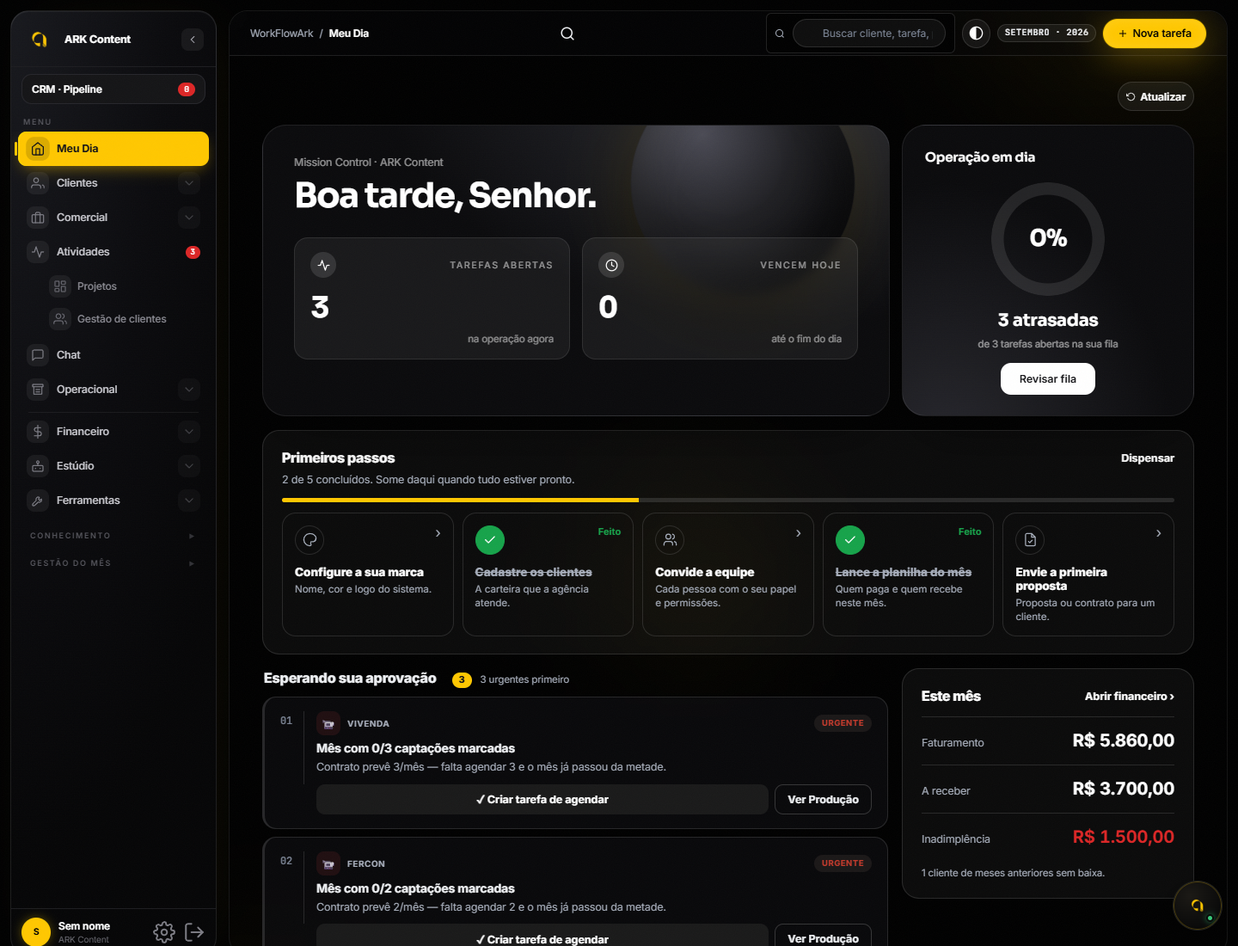
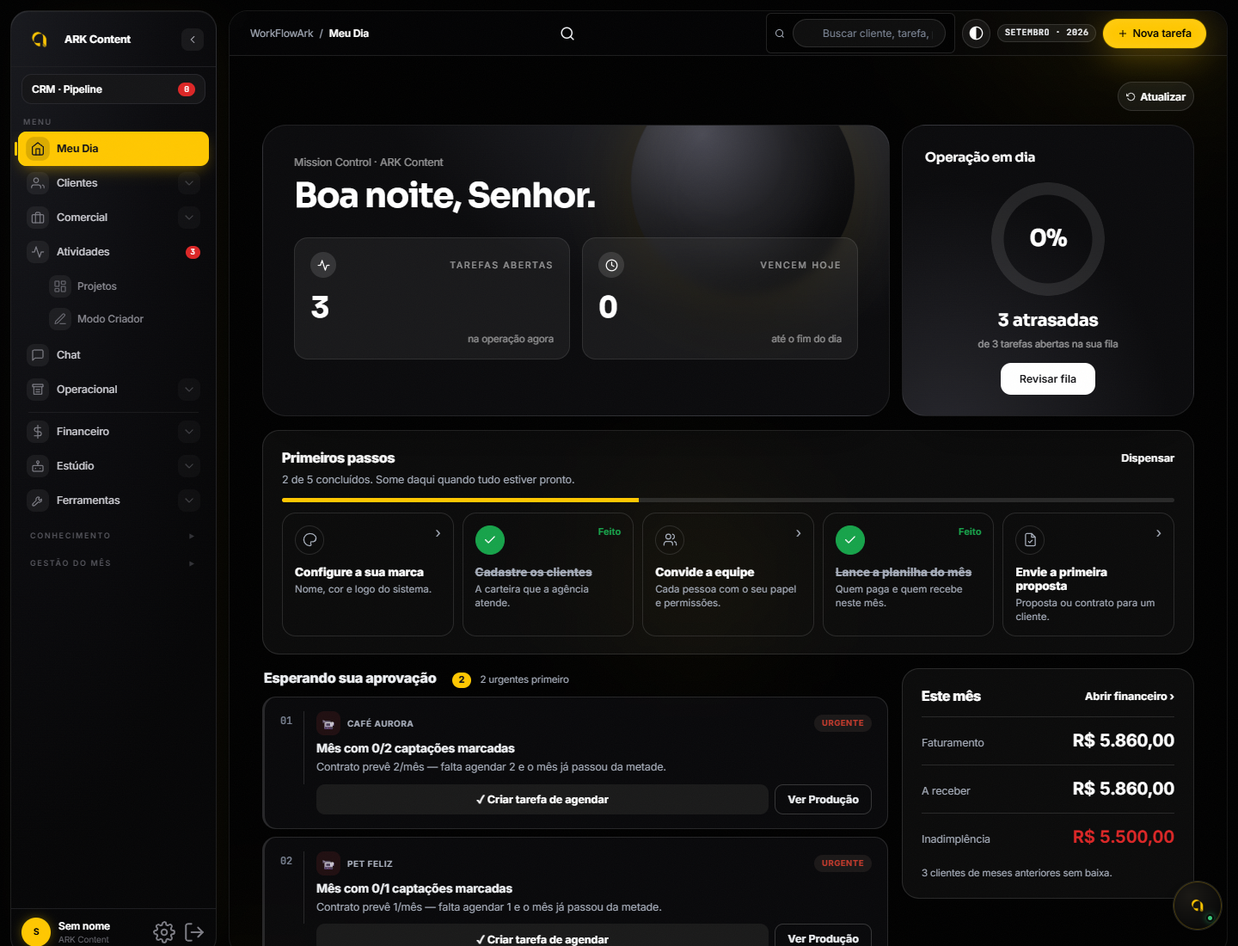
feat(clientes): Lista de Clientes no molde da V3 com a jornada nos cartões
- Busca por nome ou plano e alternância Cartões | Lista (a escolha fica salva)
- Abas por objetivo: Todos, Onboarding, Em jornada, Precisa de atenção e Churn
- Cartão junta plano, valor, captações, etapa da jornada (Sprint N de 20 com barra),
  cobrança do mês e os atalhos de antes (ficha, Modo Criador, relatório, criativos,
  onboarding, editar); a lista mostra as mesmas colunas da V3
- Saúde dos clientes sai da lista (continua na aba Saúde de cada cliente); mapa no
  botão do topo
- Provas do Início refeitas com carteira fictícia (as anteriores mostravam nomes
  reais de clientes num repositório público)
- Lógica em src/lib/clientes-lista.js com cópia no navegador e teste

diff --git a/public/workflowark.html b/public/workflowark.html
@@ -1,4 +1,4 @@
-<!-- build 20260926d-modo-criador -->
+<!-- build 20260926e-lista-clientes -->
 <html lang="pt-BR">
 <head>
 <meta charset="utf-8">
@@ -1234,16 +1234,15 @@ function wfaSetTheme(t){
       <!-- =================== LISTA DE CLIENTES =================== -->
       <div class="page" id="page-lista-clientes">
         <div class="page-head">
-          <div class="page-title"><h1>Lista de Clientes</h1><p>Carteira consolidada · ARK direta + Squad Alpha</p></div>
-          <div style="display:flex;gap:6px"><button class="tb-btn dk" onclick="cliNovoOpen()">+ Novo cliente</button></div>
+          <div class="page-title"><h1>Clientes</h1><p id="cl-sub">Carteira da ARK</p></div>
+          <div style="display:flex;gap:6px;flex-wrap:wrap"><button type="button" class="tb-btn" id="climap-abrir" onclick="cliMapAbrir()">Ver mapa dos clientes</button><button class="tb-btn dk" onclick="cliNovoOpen()">+ Novo cliente</button></div>
         </div>
 
         <div class="cli-kpis" id="cli-kpis"></div>
 
-        <div id="cli-health"></div>
+        <div id="cli-health" style="display:none"></div>
 
         <!-- Mapa dos clientes (MapLibre GL, o motor do mapcn, carregado sob demanda) -->
-        <div style="display:flex;justify-content:flex-end;margin:-4px 0 12px"><button type="button" class="tb-btn" id="climap-abrir" onclick="cliMapAbrir()">Ver mapa dos clientes</button></div>
         <div class="card" id="climap-card" style="padding:0;overflow:hidden;margin-bottom:16px;display:none">
           <div style="display:flex;align-items:center;justify-content:space-between;gap:10px;padding:14px 16px;border-bottom:1px solid var(--line);flex-wrap:wrap">
             <h3 style="font-size:14px;font-weight:700;display:flex;align-items:center;gap:8px;margin:0">
@@ -1258,6 +1257,66 @@ function wfaSetTheme(t){
           <div id="climap" style="height:400px;background:#0a0a0c"></div>
         </div>
 
+        <style>
+          #page-lista-clientes .cl-barra{display:flex;gap:10px;align-items:center;flex-wrap:wrap;margin:4px 0 14px}
+          #page-lista-clientes .cl-busca{flex:1 1 260px;position:relative}
+          #page-lista-clientes .cl-busca input{width:100%;padding:10px 12px 10px 36px;border:1px solid var(--line);border-radius:12px;background:var(--surface);color:var(--ink);font-size:13px;font-family:inherit;outline:none}
+          #page-lista-clientes .cl-busca input:focus{border-color:var(--yel)}
+          #page-lista-clientes .cl-busca svg{position:absolute;left:12px;top:50%;transform:translateY(-50%);color:var(--mute)}
+          #page-lista-clientes .cl-seg{display:flex;gap:2px;border:1px solid var(--line);border-radius:12px;padding:4px;background:var(--surface);overflow-x:auto;max-width:100%;scrollbar-width:none}
+          #page-lista-clientes .cl-seg::-webkit-scrollbar{display:none}
+          #page-lista-clientes .cl-seg button{background:none;border:none;padding:7px 12px;border-radius:9px;font-size:12.5px;font-weight:600;color:var(--mute);cursor:pointer;white-space:nowrap;font-family:inherit;display:inline-flex;gap:6px;align-items:center}
+          #page-lista-clientes .cl-seg button em{font-style:normal;font-size:10.5px;opacity:.75}
+          #page-lista-clientes .cl-seg button.ativo{background:var(--ink);color:var(--bg)}
+          #page-lista-clientes .cl-seg button:focus-visible,#page-lista-clientes .cl-btn:focus-visible,#page-lista-clientes .cl-card:focus-visible{outline:2px solid var(--yel);outline-offset:2px}
+          #page-lista-clientes .cl-grade{display:grid;grid-template-columns:repeat(auto-fill,minmax(290px,1fr));gap:12px}
+          #page-lista-clientes .cl-card{background:var(--surface);border:1px solid var(--line);border-radius:18px;padding:16px;display:flex;flex-direction:column;gap:12px;cursor:pointer;transition:border-color .15s,transform .15s;min-width:0;border-top:3px solid var(--line)}
+          #page-lista-clientes .cl-card:hover{border-color:var(--ink);transform:translateY(-1px)}
+          #page-lista-clientes .cl-card.st-r{border-top-color:var(--red)}#page-lista-clientes .cl-card.st-y{border-top-color:#f59e0b}#page-lista-clientes .cl-card.st-gr{border-top-color:var(--green)}
+          #page-lista-clientes .cl-card-cab{display:flex;align-items:center;gap:10px;min-width:0}
+          #page-lista-clientes .cl-av{width:38px;height:38px;border-radius:11px;display:grid;place-items:center;font-weight:800;font-size:13px;flex:none;background:color-mix(in srgb,var(--yel) 22%,transparent);color:var(--ink)}
+          #page-lista-clientes .cl-nm{min-width:0;flex:1;display:flex;flex-direction:column}
+          #page-lista-clientes .cl-nm b{font-size:14.5px;color:var(--ink);white-space:nowrap;overflow:hidden;text-overflow:ellipsis}
+          #page-lista-clientes .cl-nm span{font-size:11.5px;color:var(--mute);white-space:nowrap;overflow:hidden;text-overflow:ellipsis}
+          #page-lista-clientes .cl-valor{display:flex;align-items:baseline;gap:6px;flex-wrap:wrap}
+          #page-lista-clientes .cl-valor b{font-size:21px;font-weight:800;color:var(--ink);font-variant-numeric:tabular-nums}
+          #page-lista-clientes .cl-valor span{font-size:12px;color:var(--mute)}
+          #page-lista-clientes .cl-valor em{font-style:normal;font-size:11px;font-weight:700;color:var(--yel-d);margin-left:auto}
+          #page-lista-clientes .cl-jor-t{display:flex;justify-content:space-between;font-size:11.5px;color:var(--mute);margin-bottom:6px}
+          #page-lista-clientes .cl-jor-t b{color:var(--ink);font-weight:700}
+          #page-lista-clientes .cl-jor-barra{height:6px;border-radius:999px;background:var(--line);overflow:hidden}
+          #page-lista-clientes .cl-jor-barra i{display:block;height:100%;background:var(--yel);border-radius:999px}
+          #page-lista-clientes .cl-jor.sem .cl-jor-t b{color:var(--mute);font-weight:600}
+          #page-lista-clientes .cl-meta{font-size:12px;color:var(--mute);margin:0;line-height:1.45;display:-webkit-box;-webkit-line-clamp:2;-webkit-box-orient:vertical;overflow:hidden}
+          #page-lista-clientes .cl-chip{display:inline-flex;align-items:center;gap:6px;font-size:11px;font-weight:700;border-radius:999px;padding:3px 9px;color:var(--mute);border:1px solid var(--line);white-space:nowrap}
+          #page-lista-clientes .cl-chip i{width:6px;height:6px;border-radius:50%;background:currentColor}
+          #page-lista-clientes .cl-chip.ok,#page-lista-clientes .cl-chip.st-gr{color:var(--green);border-color:transparent;background:color-mix(in srgb,var(--green) 13%,transparent)}
+          #page-lista-clientes .cl-chip.ab,#page-lista-clientes .cl-chip.st-y{color:#b36200;border-color:transparent;background:color-mix(in srgb,#f59e0b 18%,transparent)}
+          #page-lista-clientes .cl-chip.st-r{color:var(--red);border-color:transparent;background:color-mix(in srgb,var(--red) 13%,transparent)}
+          body.aura-dark #page-lista-clientes .cl-chip.ab,body.aura-dark #page-lista-clientes .cl-chip.st-y{color:#fbbf24}
+          #page-lista-clientes .cl-card-pe{display:flex;gap:6px;flex-wrap:wrap}
+          #page-lista-clientes .cl-acoes{display:flex;gap:6px;flex-wrap:wrap;border-top:1px solid var(--line);padding-top:12px}
+          #page-lista-clientes .cl-btn{font-family:inherit;font-size:11.5px;font-weight:700;border-radius:9px;padding:6px 10px;cursor:pointer;border:1px solid var(--line);background:none;color:var(--ink)}
+          #page-lista-clientes .cl-btn.pri{background:var(--yel);border-color:var(--yel);color:#141414}
+          #page-lista-clientes .cl-btn:hover{border-color:var(--ink)}
+          #page-lista-clientes .cl-tab-caixa{overflow-x:auto;border:1px solid var(--line);border-radius:16px;background:var(--surface)}
+          #page-lista-clientes .cl-tab{width:100%;border-collapse:collapse;font-size:13px;min-width:760px}
+          #page-lista-clientes .cl-tab th{font-size:11.5px;font-weight:600;color:var(--mute);text-align:left;padding:11px 14px;border-bottom:1px solid var(--line);white-space:nowrap}
+          #page-lista-clientes .cl-tab td{padding:11px 14px;border-top:1px solid var(--line);color:var(--ink);vertical-align:middle}
+          #page-lista-clientes .cl-tab tr:first-child td{border-top:none}
+          #page-lista-clientes .cl-tab tbody tr{cursor:pointer}#page-lista-clientes .cl-tab tbody tr:hover td{background:color-mix(in srgb,var(--ink) 4%,transparent)}
+          #page-lista-clientes .cl-tab .n{text-align:right;white-space:nowrap;font-variant-numeric:tabular-nums}
+          #page-lista-clientes .cl-cel-nm{display:flex;align-items:center;gap:10px}#page-lista-clientes .cl-cel-nm b{display:block}#page-lista-clientes .cl-cel-nm span{font-size:11.5px;color:var(--mute)}
+          #page-lista-clientes .cl-mute{color:var(--mute)}#page-lista-clientes .cl-vazio{font-size:13px;color:var(--mute);padding:24px 0;text-align:center}
+          @media(max-width:560px){#page-lista-clientes .cl-grade{grid-template-columns:minmax(0,1fr)}#page-lista-clientes .cl-barra{gap:8px}}
+        </style>
+        <div class="cl-barra">
+          <label class="cl-busca"><svg viewBox="0 0 24 24" width="15" height="15" fill="none" stroke="currentColor" stroke-width="2" stroke-linecap="round"><circle cx="11" cy="11" r="7"/><path d="M21 21l-4.3-4.3"/></svg><input id="cl-busca" type="search" placeholder="Buscar por nome ou plano" aria-label="Buscar cliente"></label>
+          <div class="cl-seg" role="group" aria-label="Visualização"><button type="button" data-cl-vista="cartoes">Cartões</button><button type="button" data-cl-vista="lista">Lista</button></div>
+        </div>
+        <div class="cl-seg" id="cl-abas" role="tablist" aria-label="Objetivos" style="margin-bottom:14px;width:max-content"></div>
+        <div id="cl-corpo"></div>
+        <div hidden aria-hidden="true">
         <div class="tabs" data-tabs>
           <div class="tab active" data-sub="todos">Todos <span class="ct">14</span></div>
           <div class="tab" data-sub="ark">ARK Direto <span class="ct">8</span></div>
@@ -1273,6 +1332,7 @@ function wfaSetTheme(t){
         </div>
         <div class="subpage" data-subpage="ark"><div class="g3" id="ark-clientes-2"></div></div>
         <div class="subpage" data-subpage="alpha"><div class="g3" id="alpha-clientes-2"></div></div>
+        </div>
       </div>
 
       <!-- =================== JORNADA / SPRINTS =================== -->
@@ -4678,11 +4738,13 @@ function wfaSetTheme(t){
 
 <div class="toast" id="toast"><svg viewBox="0 0 24 24" fill="none" stroke="currentColor" stroke-width="2.5" stroke-linecap="round" stroke-linejoin="round"><polyline points="20 6 9 17 4 12"/></svg><span id="toast-msg">Pronto</span></div>
 
-<script src="workflowark-app-20260926b.js"></script>
+<script src="workflowark-app-20260926c.js"></script>
 <script type="module">import * as P from "./workflowark-permissoes-20260926a.js";window.WFA_PERM=P;try{applyAccess();}catch(e){}</script>
 <script src="workflowark-finpainel-20260926a.js"></script>
 <script src="workflowark-inicio-20260926a.js"></script>
 <script src="workflowark-criadorpainel-20260926a.js"></script>
+<script src="workflowark-clientes-20260926a.js"></script>
+<script type="module">import * as L from "./workflowark-clientes-lista-20260926a.js";window.WFA_CLI=L;try{cliListaRender();}catch(e){}</script>
 <script type="module">import * as C from "./workflowark-criador-20260926a.js";window.WFA_CRIADOR=C;try{if(document.querySelector("#page-criador.active"))criadorRender();}catch(e){}</script>
 <script type="module">import * as F from "./workflowark-financeiro-20260926a.js";window.WFA_FIN=F;try{fxRender();}catch(e){}try{iniRender();}catch(e){}</script>
 <script src="workflowark-cliente-20260922d.js" defer></script>

diff --git a/public/workflowark-clientes-20260926a.js b/public/workflowark-clientes-20260926a.js
@@ -1,0 +1,72 @@
+/* ============ LISTA DE CLIENTES NO MOLDE DA V3 (26/09/2026) ============
+   Busca, abas por objetivo (Todos, Onboarding, Em jornada, Precisa de atenção, Churn) e
+   alternância Cartões | Lista. O cartão junta a jornada (sprint) com plano, valor e a
+   cobrança do mês. Cálculo em window.WFA_CLI (workflowark-clientes-lista-<data>.js). */
+let CL_ABA='todos',CL_BUSCA='',CL_VISTA=(function(){try{return localStorage.getItem('wfa-cli-vista')||'cartoes';}catch(e){return 'cartoes';}})(),CL_LIGADO=false;
+const CL_ABAS=[['todos','Todos'],['onboarding','Onboarding'],['jornada','Em jornada'],['atencao','Precisa de atenção'],['churn','Churn']];
+const CL_ST={r:'Urgente',y:'Em ajuste',gr:'Saudável',churn:'Churn'};
+function clEsc(s){return (typeof mdEsc==='function')?mdEsc(s):String(s==null?'':s).replace(/[&<>"']/g,c=>({'&':'&amp;','<':'&lt;','>':'&gt;','"':'&quot;',"'":'&#39;'}[c]));}
+function clIni(nm){return (typeof cliInitials==='function')?cliInitials(String(nm||'?')).toUpperCase():String(nm||'?').slice(0,2).toUpperCase();}
+function clR(v){return v?'R$ '+Number(v).toLocaleString('pt-BR'):'';}
+function clJornada(x){
+  if(x.etapa==='onboarding')return `<div class="cl-jor"><div class="cl-jor-t"><span>Jornada</span><b>Onboarding</b></div><div class="cl-jor-barra"><i style="width:3%"></i></div></div>`;
+  if(x.etapa==='jornada')return `<div class="cl-jor"><div class="cl-jor-t"><span>Jornada</span><b>Sprint ${x.sprint} de 20</b></div><div class="cl-jor-barra"><i style="width:${x.progresso}%"></i></div></div>`;
+  return `<div class="cl-jor sem"><div class="cl-jor-t"><span>Jornada</span><b>Fora da jornada</b></div><div class="cl-jor-barra"></div></div>`;
+}
+function clCob(x){
+  if(!x.cobravel)return `<span class="cl-chip">${x.tipo==='Alpha'?'Squad Alpha':'Sem valor'}</span>`;
+  return x.cobrado?'<span class="cl-chip ok"><i></i>Cobrado no mês</span>':'<span class="cl-chip ab"><i></i>A cobrar</span>';
+}
+function clStatus(x){return `<span class="cl-chip st-${clEsc(x.status)}"><i></i>${CL_ST[x.status]||'Ativo'}</span>`;}
+function clCartao(x){
+  return `<div class="cl-card st-${clEsc(x.status)}" data-cl-ficha="${clEsc(x.id)}" tabindex="0" role="button" aria-label="Abrir ficha de ${clEsc(x.nm)}">
+    <div class="cl-card-cab"><span class="cl-av">${clEsc(clIni(x.nm))}</span><div class="cl-nm"><b>${clEsc(x.nm)}</b><span>${clEsc(x.plano||'Sem plano')}${x.tipo==='Alpha'?' · Squad Alpha':''}</span></div>${clStatus(x)}</div>
+    <div class="cl-valor">${x.valor?`<b>${clR(x.valor)}</b><span>/mês</span>`:'<span class="cl-mute">Sem valor mensal</span>'}${x.cap?`<em>${x.cap} ${x.cap===1?'captação':'captações'}/mês</em>`:''}</div>
+    ${clJornada(x)}
+    ${x.meta?`<p class="cl-meta">${clEsc(x.meta)}</p>`:''}
+    <div class="cl-card-pe">${clCob(x)}</div>
+    <div class="cl-acoes">
+      <button type="button" class="cl-btn pri" data-cl-ficha="${clEsc(x.id)}">Abrir ficha</button>
+      <button type="button" class="cl-btn" data-cl-criador="${clEsc(x.id)}">Modo Criador</button>
+      <button type="button" class="cl-btn" data-cl-acao="relatorioCliente" data-id="${clEsc(x.id)}">Relatório</button>
+      <button type="button" class="cl-btn" data-cl-acao="abrirCriativos" data-id="${clEsc(x.id)}">Criativos</button>
+      <button type="button" class="cl-btn" data-cl-acao="abrirOnboarding" data-id="${clEsc(x.id)}">Onboarding</button>
+      <button type="button" class="cl-btn" data-cl-acao="cliEditOpen" data-id="${clEsc(x.id)}">Editar</button>
+    </div>
+  </div>`;
+}
+function clTabela(ls){
+  return `<div class="cl-tab-caixa"><table class="cl-tab"><thead><tr><th>Cliente</th><th>Plano</th><th class="n">Valor mensal</th><th>Jornada</th><th>Cobrança do mês</th><th>Status</th></tr></thead><tbody>${ls.map(x=>`<tr data-cl-ficha="${clEsc(x.id)}" tabindex="0">
+    <td><div class="cl-cel-nm"><span class="cl-av">${clEsc(clIni(x.nm))}</span><div><b>${clEsc(x.nm)}</b><span>${x.tipo==='Alpha'?'Squad Alpha':'ARK Direto'}</span></div></div></td>
+    <td>${clEsc(x.plano||'Sem plano')}</td><td class="n">${x.valor?clR(x.valor):'<span class="cl-mute">sem valor</span>'}</td>
+    <td>${x.etapa==='sem'?'<span class="cl-mute">Fora da jornada</span>':x.etapa==='onboarding'?'Onboarding':'Sprint '+x.sprint+' de 20'}</td>
+    <td>${clCob(x)}</td><td>${clStatus(x)}</td></tr>`).join('')}</tbody></table></div>`;
+}
+function cliListaRender(){
+  const el=document.getElementById('cl-corpo');if(!el)return;
+  clLigar();
+  if(!window.WFA_CLI){el.innerHTML='<p class="cl-mute">Carregando a carteira…</p>';return;}
+  const mk=(typeof cobMesKey==='function')?cobMesKey():new Date().toISOString().slice(0,7);
+  const linhas=WFA_CLI.montarLinhas((typeof CLIENTES!=='undefined'?CLIENTES:[]),(typeof SPRINTS!=='undefined'?SPRINTS:[]),state.cobranca||{},mk);
+  const n=WFA_CLI.contarAbas(linhas);
+  const sub=document.getElementById('cl-sub');if(sub)sub.textContent=`${n.todos} ${n.todos===1?'cliente ativo':'clientes ativos'}${n.churn?`, ${n.churn} em churn`:''}`;
+  const abas=document.getElementById('cl-abas');
+  if(abas)abas.innerHTML=CL_ABAS.map(([k,t])=>`<button type="button" role="tab" data-cl-aba="${k}" class="${k===CL_ABA?'ativo':''}" aria-selected="${k===CL_ABA}">${t}<em>${n[k]}</em></button>`).join('');
+  document.querySelectorAll('[data-cl-vista]').forEach(b=>b.classList.toggle('ativo',b.dataset.clVista===CL_VISTA));
+  const ls=WFA_CLI.filtrar(linhas,CL_ABA,CL_BUSCA);
+  if(!ls.length){el.innerHTML=`<p class="cl-vazio">${CL_BUSCA?'Nenhum cliente com esse nome ou plano.':'Nenhum cliente nesta aba.'}</p>`;return;}
+  el.innerHTML=CL_VISTA==='lista'?clTabela(ls):`<div class="cl-grade">${ls.map(clCartao).join('')}</div>`;
+}
+function clLigar(){
+  if(CL_LIGADO)return;const pg=document.getElementById('page-lista-clientes');if(!pg)return;CL_LIGADO=true;
+  pg.addEventListener('click',e=>{
+    const t=e.target;
+    const aba=t.closest('[data-cl-aba]');if(aba){CL_ABA=aba.dataset.clAba;cliListaRender();return;}
+    const v=t.closest('[data-cl-vista]');if(v){CL_VISTA=v.dataset.clVista;try{localStorage.setItem('wfa-cli-vista',CL_VISTA);}catch(_){}cliListaRender();return;}
+    const cr=t.closest('[data-cl-criador]');if(cr){e.stopPropagation();if(typeof criadorAbrir==='function')criadorAbrir(cr.dataset.clCriador);return;}
+    const ac=t.closest('[data-cl-acao]');if(ac){e.stopPropagation();const fn=window[ac.dataset.clAcao];if(typeof fn==='function')fn(ac.dataset.id);return;}
+    const f=t.closest('[data-cl-ficha]');if(f&&typeof cliDetalhe==='function'){cliDetalhe(f.dataset.clFicha);}
+  });
+  pg.addEventListener('keydown',e=>{if(e.key!=='Enter')return;const f=e.target.closest&&e.target.closest('[data-cl-ficha]');if(f&&typeof cliDetalhe==='function')cliDetalhe(f.dataset.clFicha);});
+  const b=document.getElementById('cl-busca');if(b)b.addEventListener('input',()=>{CL_BUSCA=b.value;cliListaRender();});
+}

diff --git a/public/workflowark-clientes-lista-20260926a.js b/public/workflowark-clientes-lista-20260926a.js
@@ -1,0 +1,53 @@
+// Lista de Clientes no molde da V3 (26/09/2026). Módulo puro, testado em
+// deploy/teste-clientes-lista.mjs; o navegador carrega uma cópia IDÊNTICA em
+// public/workflowark-clientes-lista-<data>.js. Junta o cliente, a etapa da jornada
+// (sprint 0 é onboarding, 1 a 20 é a jornada) e a cobrança do mês.
+
+const ULTIMO_SPRINT = 20;
+const semAcento = (s) => String(s || "").normalize("NFD").replace(/[̀-ͯ]/g, "").toLowerCase();
+const ORDEM_STATUS = { r: 0, y: 1, gr: 2, churn: 3 };
+
+export function montarLinhas(clientes, sprints, cobranca, mk) {
+  const sprintDe = {};
+  for (const sp of sprints || []) for (const id of sp.clis || []) if (!(id in sprintDe)) sprintDe[id] = sp.n;
+  return (clientes || []).map((c) => {
+    const sprint = c.id in sprintDe ? sprintDe[c.id] : null;
+    const cob = (cobranca || {})[c.id] || {};
+    const cobravel = c.tipo !== "Alpha" && Number(c.valor) > 0;
+    return {
+      id: c.id, nm: c.nm, tipo: c.tipo || "", plano: c.plano || "", valor: Number(c.valor) || 0, cap: Number(c.cap) || 0,
+      status: c.status || "gr", meta: c.meta || "",
+      sprint,
+      etapa: sprint === null ? "sem" : sprint === 0 ? "onboarding" : "jornada",
+      progresso: sprint ? Math.round((sprint / ULTIMO_SPRINT) * 100) : 0,
+      cobravel,
+      cobrado: cobravel && (cob.cobradoMes === mk || !!(cob.cobradoMeses && cob.cobradoMeses[mk])),
+      atencao: c.status === "r" || c.status === "y",
+    };
+  });
+}
+
+export function filtrar(linhas, aba, busca) {
+  const q = semAcento(busca).trim();
+  let out = (linhas || []).filter((x) => {
+    if (aba === "churn") return x.status === "churn";
+    if (x.status === "churn") return false;
+    if (aba === "onboarding") return x.etapa === "onboarding";
+    if (aba === "jornada") return x.etapa === "jornada";
+    if (aba === "atencao") return x.atencao;
+    return true;
+  });
+  if (q) out = out.filter((x) => semAcento(x.nm + " " + x.plano + " " + x.tipo).includes(q));
+  return out.sort((a, b) => (ORDEM_STATUS[a.status] ?? 2) - (ORDEM_STATUS[b.status] ?? 2) || String(a.nm).localeCompare(String(b.nm), "pt-BR"));
+}
+
+export function contarAbas(linhas) {
+  const ativos = (linhas || []).filter((x) => x.status !== "churn");
+  return {
+    todos: ativos.length,
+    onboarding: ativos.filter((x) => x.etapa === "onboarding").length,
+    jornada: ativos.filter((x) => x.etapa === "jornada").length,
+    atencao: ativos.filter((x) => x.atencao).length,
+    churn: (linhas || []).filter((x) => x.status === "churn").length,
+  };
+}

diff --git a/src/lib/clientes-lista.js b/src/lib/clientes-lista.js
@@ -1,0 +1,53 @@
+// Lista de Clientes no molde da V3 (26/09/2026). Módulo puro, testado em
+// deploy/teste-clientes-lista.mjs; o navegador carrega uma cópia IDÊNTICA em
+// public/workflowark-clientes-lista-<data>.js. Junta o cliente, a etapa da jornada
+// (sprint 0 é onboarding, 1 a 20 é a jornada) e a cobrança do mês.
+
+const ULTIMO_SPRINT = 20;
+const semAcento = (s) => String(s || "").normalize("NFD").replace(/[̀-ͯ]/g, "").toLowerCase();
+const ORDEM_STATUS = { r: 0, y: 1, gr: 2, churn: 3 };
+
+export function montarLinhas(clientes, sprints, cobranca, mk) {
+  const sprintDe = {};
+  for (const sp of sprints || []) for (const id of sp.clis || []) if (!(id in sprintDe)) sprintDe[id] = sp.n;
+  return (clientes || []).map((c) => {
+    const sprint = c.id in sprintDe ? sprintDe[c.id] : null;
+    const cob = (cobranca || {})[c.id] || {};
+    const cobravel = c.tipo !== "Alpha" && Number(c.valor) > 0;
+    return {
+      id: c.id, nm: c.nm, tipo: c.tipo || "", plano: c.plano || "", valor: Number(c.valor) || 0, cap: Number(c.cap) || 0,
+      status: c.status || "gr", meta: c.meta || "",
+      sprint,
+      etapa: sprint === null ? "sem" : sprint === 0 ? "onboarding" : "jornada",
+      progresso: sprint ? Math.round((sprint / ULTIMO_SPRINT) * 100) : 0,
+      cobravel,
+      cobrado: cobravel && (cob.cobradoMes === mk || !!(cob.cobradoMeses && cob.cobradoMeses[mk])),
+      atencao: c.status === "r" || c.status === "y",
+    };
+  });
+}
+
+export function filtrar(linhas, aba, busca) {
+  const q = semAcento(busca).trim();
+  let out = (linhas || []).filter((x) => {
+    if (aba === "churn") return x.status === "churn";
+    if (x.status === "churn") return false;
+    if (aba === "onboarding") return x.etapa === "onboarding";
+    if (aba === "jornada") return x.etapa === "jornada";
+    if (aba === "atencao") return x.atencao;
+    return true;
+  });
+  if (q) out = out.filter((x) => semAcento(x.nm + " " + x.plano + " " + x.tipo).includes(q));
+  return out.sort((a, b) => (ORDEM_STATUS[a.status] ?? 2) - (ORDEM_STATUS[b.status] ?? 2) || String(a.nm).localeCompare(String(b.nm), "pt-BR"));
+}
+
+export function contarAbas(linhas) {
+  const ativos = (linhas || []).filter((x) => x.status !== "churn");
+  return {
+    todos: ativos.length,
+    onboarding: ativos.filter((x) => x.etapa === "onboarding").length,
+    jornada: ativos.filter((x) => x.etapa === "jornada").length,
+    atencao: ativos.filter((x) => x.atencao).length,
+    churn: (linhas || []).filter((x) => x.status === "churn").length,
+  };
+}

diff --git a/public/workflowark-app-20260926c.js b/public/workflowark-app-20260926c.js
@@ -1143,6 +1143,7 @@ function renderClientes(){
   ['alpha-clientes','alpha-clientes-2'].forEach(id=>{const el=document.getElementById(id);if(el)el.innerHTML=alpha.map(cliCard).join('');});
   renderClientesKPIs();
   try{renderClienteSaude();}catch(e){console.warn('saude',e);}
+  try{if(typeof cliListaRender==='function')cliListaRender();}catch(e){console.warn('lista',e);}
   // popular select da modal nova
   const sel=document.getElementById('nt-cliente');
   if(sel) sel.innerHTML=CLIENTES.filter(c=>c.status!=='churn').map(c=>`<option value="${c.id}">${c.nm}</option>`).join('');

diff --git a/deploy/prova-lista-clientes.py b/deploy/prova-lista-clientes.py
@@ -1,0 +1,61 @@
+# -*- coding: utf-8 -*-
+"""Prova da Lista de Clientes no molde da V3 (26/09/2026). Uso: python deploy/prova-lista-clientes.py [url-base].
+Local: carteira FICTÍCIA (repositório público). Abas, busca, cartões e lista em claro, escuro e celular."""
+import sys, json, time, threading, http.server, socketserver, functools, io
+sys.stdout = io.TextIOWrapper(sys.stdout.buffer, encoding='utf-8')
+from playwright.sync_api import sync_playwright
+base = sys.argv[1] if len(sys.argv) > 1 else None
+srv = None
+if not base:
+    class Q(http.server.SimpleHTTPRequestHandler):
+        def log_message(self, *a): pass
+    srv = socketserver.TCPServer(('127.0.0.1', 5199), functools.partial(Q, directory='public'))
+    threading.Thread(target=srv.serve_forever, daemon=True).start()
+    base = 'http://127.0.0.1:5199'
+sess = {'access_token': 't', 'refresh_token': 't', 'token_type': 'bearer', 'expires_in': 3600, 'expires_at': int(time.time()) + 3600, 'user': {'id': '0', 'email': 'dono@agencia.exemplo'}}
+CLI = [{'id': 'aurora', 'nm': 'Café Aurora', 'plano': 'Crescimento', 'tipo': 'ARK', 'status': 'gr', 'valor': 1800, 'cap': 1, 'meta': 'Cardápio de primavera em produção.'},
+       {'id': 'petfeliz', 'nm': 'Pet Feliz', 'plano': 'Essencial', 'tipo': 'ARK', 'status': 'y', 'valor': 2200, 'cap': 0, 'meta': 'Ajustar o calendário de outubro.'},
+       {'id': 'pilates', 'nm': 'Studio Pilates Leve', 'plano': 'Squad', 'tipo': 'Alpha', 'status': 'gr', 'valor': 0, 'cap': 0, 'meta': ''},
+       {'id': 'burger', 'nm': 'Burger do Bairro', 'plano': 'Crescimento', 'tipo': 'ARK', 'status': 'r', 'valor': 1500, 'cap': 2, 'meta': 'Cobrança atrasada.'},
+       {'id': 'otica', 'nm': 'Ótica Nova Visão', 'plano': 'Essencial', 'tipo': 'ARK', 'status': 'gr', 'valor': 1000, 'cap': 0, 'meta': ''},
+       {'id': 'antigo', 'nm': 'Bar Antigo', 'plano': 'Essencial', 'tipo': 'ARK', 'status': 'churn', 'valor': 900, 'cap': 0, 'meta': ''}]
+SEED = ("() => { const c = %s; CLIENTES.length = 0; c.forEach(x => CLIENTES.push(x)); "
+        "SPRINTS.forEach(s => s.clis = []); SPRINTS[0].clis = ['otica']; SPRINTS[3].clis = ['aurora']; SPRINTS[7].clis = ['petfeliz','burger']; "
+        "state.cobranca = { aurora: { cobradoMes: cobMesKey() } }; WFA_MEMBER = {id:'m1', role:'admin', full_name:'Dono'}; try{applyAccess();}catch(e){} try{renderClientesKPIs();}catch(e){} try{cliListaRender();}catch(e){} }") % json.dumps(CLI)
+local = srv is not None
+with sync_playwright() as pw:
+    b = pw.chromium.launch(channel='chrome', headless=True)
+    for tema in ['light', 'dark']:
+        ctx = b.new_context(viewport={'width': 1440, 'height': 1000})
+        sj = ("localStorage.setItem('sb-fxfnonozzekxnxddxsnh-auth-token',%s);" % json.dumps(json.dumps(sess))) if local else ''
+        ctx.add_init_script("try{%slocalStorage.setItem('wfa-theme','%s');localStorage.removeItem('wfa-cli-vista');}catch(e){}" % (sj, tema))
+        p = ctx.new_page(); erros = []
+        p.on('pageerror', lambda e: erros.append(str(e)[:160]))
+        p.goto(base + '/workflowark.html', wait_until='load'); p.wait_for_timeout(3500)
+        print(tema, 'marcador:', p.evaluate("async () => { const t = await (await fetch(location.href,{cache:'no-store'})).text(); return (t.match(/build [0-9a-z-]+/)||[''])[0]; }"))
+        if local: p.evaluate(SEED)
+        p.evaluate("() => document.querySelector('[data-nav=lista-clientes]').click()"); p.wait_for_timeout(500)
+        p.evaluate("() => cliListaRender()"); p.wait_for_timeout(300)
+        print('  sub:', p.evaluate("() => document.getElementById('cl-sub').textContent"), '| abas:', p.evaluate("() => [...document.querySelectorAll('#cl-abas button')].map(b=>b.textContent).join(', ')"))
+        print('  cartoes:', p.evaluate("() => document.querySelectorAll('.cl-card').length"), '| primeiro:', p.evaluate("() => (document.querySelector('.cl-card .cl-nm b')||{}).textContent"), '| saude visivel:', p.evaluate("() => getComputedStyle(document.getElementById('cli-health')).display"), '| mapa:', p.evaluate("() => getComputedStyle(document.getElementById('climap-card')).display"))
+        if local: p.screenshot(path=f'deploy/prova-lista-cartoes-{tema}.png', full_page=False)
+        for aba in ['onboarding', 'jornada', 'atencao', 'churn']:
+            p.evaluate("(a) => document.querySelector('[data-cl-aba=' + a + ']').click()", aba); p.wait_for_timeout(200)
+            print('   aba', aba, '->', p.evaluate("() => [...document.querySelectorAll('.cl-card .cl-nm b')].map(e=>e.textContent).join(', ')"))
+        p.evaluate("() => document.querySelector('[data-cl-aba=todos]').click()")
+        p.fill('#cl-busca', 'aurora'); p.wait_for_timeout(200)
+        print('  busca aurora ->', p.evaluate("() => [...document.querySelectorAll('.cl-card .cl-nm b')].map(e=>e.textContent).join(', ')"))
+        p.fill('#cl-busca', ''); p.evaluate("() => document.querySelector('[data-cl-vista=lista]').click()"); p.wait_for_timeout(300)
+        print('  lista linhas:', p.evaluate("() => document.querySelectorAll('.cl-tab tbody tr').length"))
+        if local: p.screenshot(path=f'deploy/prova-lista-tabela-{tema}.png', full_page=False)
+        p.evaluate("() => document.querySelector('.cl-tab tbody tr').click()"); p.wait_for_timeout(500)
+        print('  clique abre ficha:', p.evaluate("() => { const m = document.getElementById('modal-cli-det') || document.querySelector('.modal-bg.open'); return !!(m && (m.classList.contains('open') || getComputedStyle(m).display !== 'none')); }"))
+        if tema == 'dark':
+            p.evaluate("() => { document.querySelectorAll('.modal-bg.open').forEach(m=>m.classList.remove('open')); document.querySelector('[data-cl-vista=cartoes]').click(); }")
+            p.set_viewport_size({'width': 390, 'height': 844}); p.wait_for_timeout(700)
+            print('  celular largura:', p.evaluate("() => document.documentElement.scrollWidth"))
+            if local: p.screenshot(path='deploy/prova-lista-celular.png', full_page=True)
+        print('  erros de pagina:', erros or 'nenhum')
+        ctx.close()
+    b.close()
+if srv: srv.shutdown()

diff --git a/deploy/prova-inicio.py b/deploy/prova-inicio.py
@@ -33,7 +33,7 @@ with sync_playwright() as pw:
         p.on('pageerror', lambda e: erros.append(str(e)[:160]))
         p.goto(base + '/workflowark.html', wait_until='load'); p.wait_for_timeout(3500)
         print(tema, 'marcador:', p.evaluate("async () => { const t = await (await fetch(location.href,{cache:'no-store'})).text(); return (t.match(/build [0-9a-z-]+/)||[''])[0]; }"))
-        p.evaluate("() => { WFA_MEMBER = {id:'m1', role:'admin', full_name:'Dono da Agência'}; WFA_MEMBERS=[WFA_MEMBER]; try{localStorage.removeItem('wfa-ini-passos-ok-m1');}catch(e){} renderMeuDia(); }"); p.wait_for_timeout(800)
+        p.evaluate("() => { CLIENTES.length = 0; [{id:'aurora',nm:'Café Aurora',plano:'Crescimento',tipo:'ARK',status:'gr',valor:1800,cap:2,meta:''},{id:'petfeliz',nm:'Pet Feliz',plano:'Essencial',tipo:'ARK',status:'y',valor:2200,cap:1,meta:''},{id:'burger',nm:'Burger do Bairro',plano:'Crescimento',tipo:'ARK',status:'r',valor:1500,cap:0,meta:''}].forEach(c => CLIENTES.push(c)); WFA_MEMBER = {id:'m1', role:'admin', full_name:'Dono da Agência'}; WFA_MEMBERS=[WFA_MEMBER]; try{localStorage.removeItem('wfa-ini-passos-ok-m1');}catch(e){} renderMeuDia(); }"); p.wait_for_timeout(800)
         print('  passos visiveis:', p.evaluate("() => getComputedStyle(document.getElementById('ini-passos')).display"),
               '| feitos:', p.evaluate("() => document.querySelectorAll('.ini-passo.ok').length"), 'de', p.evaluate("() => document.querySelectorAll('.ini-passo').length"),
               '| este mes:', p.evaluate("() => (document.getElementById('ini-mes').innerText||'').split(String.fromCharCode(10)).filter(Boolean).join(' | ').slice(0,160)"),
